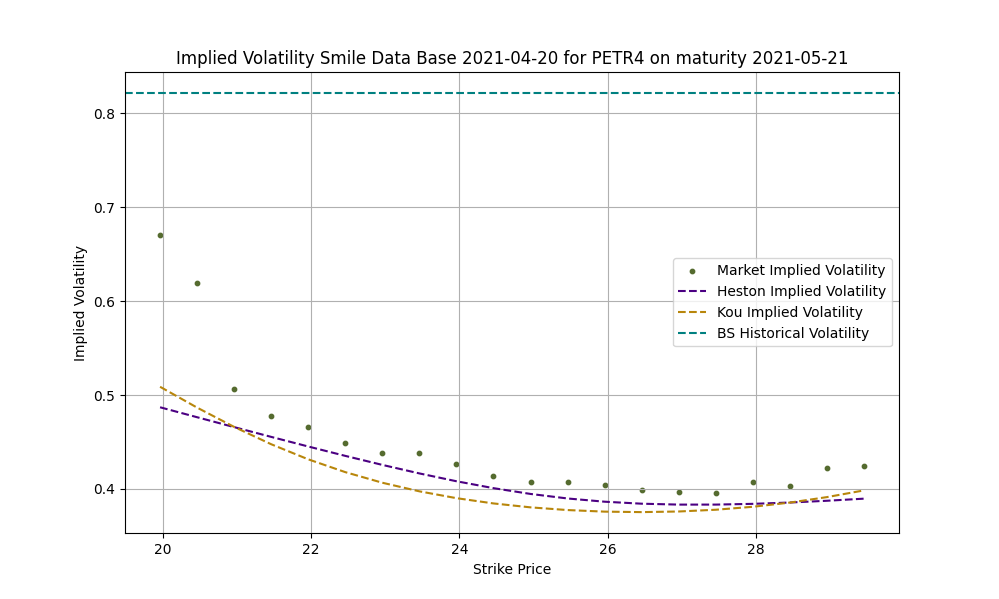
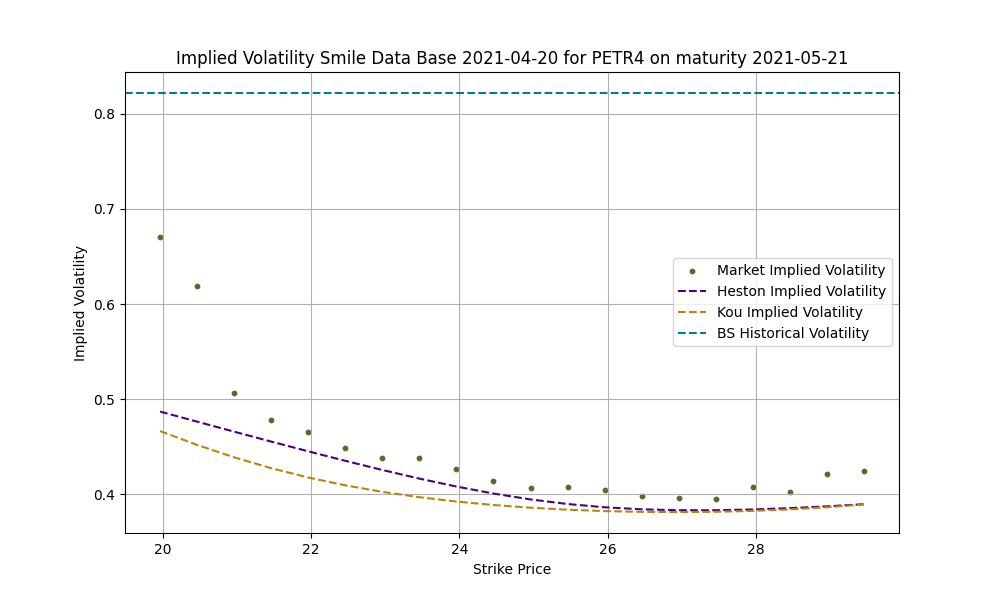
Updating results

diff --git a/models/stylized_facts.py b/models/stylized_facts.py
@@ -221,31 +221,31 @@ def test_returns():
     _, W = geometric_brownian_motion(S0=S0, tau=ndays, dt=dt, r=r, sigma=sigma, M=M)
     W = W[::daily_steps, :]
     W = np.diff(np.log(W), axis=0)
-    W = W.flatten()
-    print(f'Curtose Retorno MB database {ticker}', round(kurtosis(W, axis=0, bias=False, fisher=False), 2))
-    print(f'Assimetria Retorno MB database {ticker}', round(skew(W, axis=0, bias=False), 2))
-    plot_returns(W)
+    # W = W.flatten()
+    print(f'Curtose Retorno MB database {ticker}', np.mean(np.round(kurtosis(W, axis=0, bias=False, fisher=False), 2)))
+    print(f'Assimetria Retorno MB database {ticker}', np.mean(np.round(skew(W, axis=0, bias=False), 2)))
+    plot_returns(W[:,0].flatten())
 
     heston_params = load_params('heston', database, ticker)
     print(heston_params)
     _, W_h, _ = heston_model(S0=S0, tau=ndays, dt=dt, r=r, M=M, **heston_params)
     W_h = W_h[::daily_steps, :]
     W_h = np.diff(np.log(W_h), axis=0)
-    W_h = W_h.flatten()
-    print(f'Curtose Retorno Heston database {ticker}', round(kurtosis(W_h, axis=0, bias=False, fisher=False), 2))
-    print(f'Assimetria Retorno Heston database {ticker}', round(skew(W_h, axis=0, bias=False), 2))
-    plot_returns(W_h)
+    # W_h = W_h.flatten()
+    print(f'Curtose Retorno Heston database {ticker}', np.mean(np.round(kurtosis(W_h, axis=0, bias=False, fisher=False), 2)))
+    print(f'Assimetria Retorno Heston database {ticker}', np.mean(np.round(skew(W_h, axis=0, bias=False), 2)))
+    plot_returns(W_h[:,0].flatten())
 
     kou_params = load_params('kou', database, ticker)
     print(kou_params)
     t, W_k = kou_process(S0=S0, tau=ndays, dt=dt, r=r, M=M, **kou_params)
     W_k = W_k[::daily_steps, :]
     W_k = np.diff(np.log(W_k), axis=0)
-    W_k = W_k.flatten()
+    # W_k = W_k.flatten()
     # plot_returns(W_k, bins = int(50 * tau * 10))
-    print(f'Curtose Retorno Kou database {ticker}', round(kurtosis(W_k, axis=0, bias=False, fisher=False), 2))
-    print(f'Assimetria Retorno Kou database {ticker}', round(skew(W_k, axis=0, bias=False), 2))
-    plot_returns(W_k)
+    print(f'Curtose Retorno Kou database {ticker}', np.mean(np.round(kurtosis(W_k, axis=0, bias=False, fisher=False), 2)))
+    print(f'Assimetria Retorno Kou database {ticker}', np.mean(np.round(skew(W_k, axis=0, bias=False), 2)))
+    plot_returns(W_k[:,0].flatten())
 
 def test_smile():
     # database = "2025-01-30"
@@ -288,7 +288,7 @@ def test_asset_prices():
         plot_asset_prices(asset_ticker, database, _ndays=30)
     
 if __name__ == "__main__":
-    test_returns()
+    # test_returns()
     # test_vol()
-    # test_smile()
+    test_smile()
     # test_asset_prices()

diff --git a/models/utils.py b/models/utils.py
@@ -91,7 +91,7 @@ def estimate_sigma_hist(asset_ticker: str, data_base: str, _ndays: int):
     ewma_vol = ewma_volatility(prices_df['Asset Price'], alpha=0.94).copy()
     return ewma_vol.dropna()
 
-def get_option_data(asset_ticker: str, start_date: str, end_date: str, spread_price: float = 0.75, moneyness_divergence: float = 0.7, min_maturity_dist: float = 30/365, style: OptionStyle = OptionStyle.EURO, type: OptionType = OptionType.CALL) -> pd.DataFrame:
+def get_option_data(asset_ticker: str, start_date: str, end_date: str, spread_price: float = 0.75, moneyness_divergence: float = 0.2, min_maturity_dist: float = 30/365, style: OptionStyle = OptionStyle.EURO, type: OptionType = OptionType.CALL) -> pd.DataFrame:
     """
     Placeholder function to retrieve option prices.
     

diff --git a/models/calibration.py b/models/calibration.py
@@ -216,7 +216,7 @@ def calibrate_kou_model(asset_ticker: str, database: str = "2020-09-10", _ndays 
         "sigma": {"x0": 0.3, "limits": [1e-2,0.8]},
         "eta1": {"x0": 15, "limits": [1e-2,50]},
         "eta2": {"x0": 10, "limits": [1e-2,50]},
-        "p": {"x0": 0.4, "limits": [1e-2,0.7]},
+        "p": {"x0": 0.4, "limits": [1e-2,0.6]},
         "lambd": {"x0": 0.5, "limits": [1e-2,15]},
     }
     data_ini = nworkdays(database, -1*_ndays)
